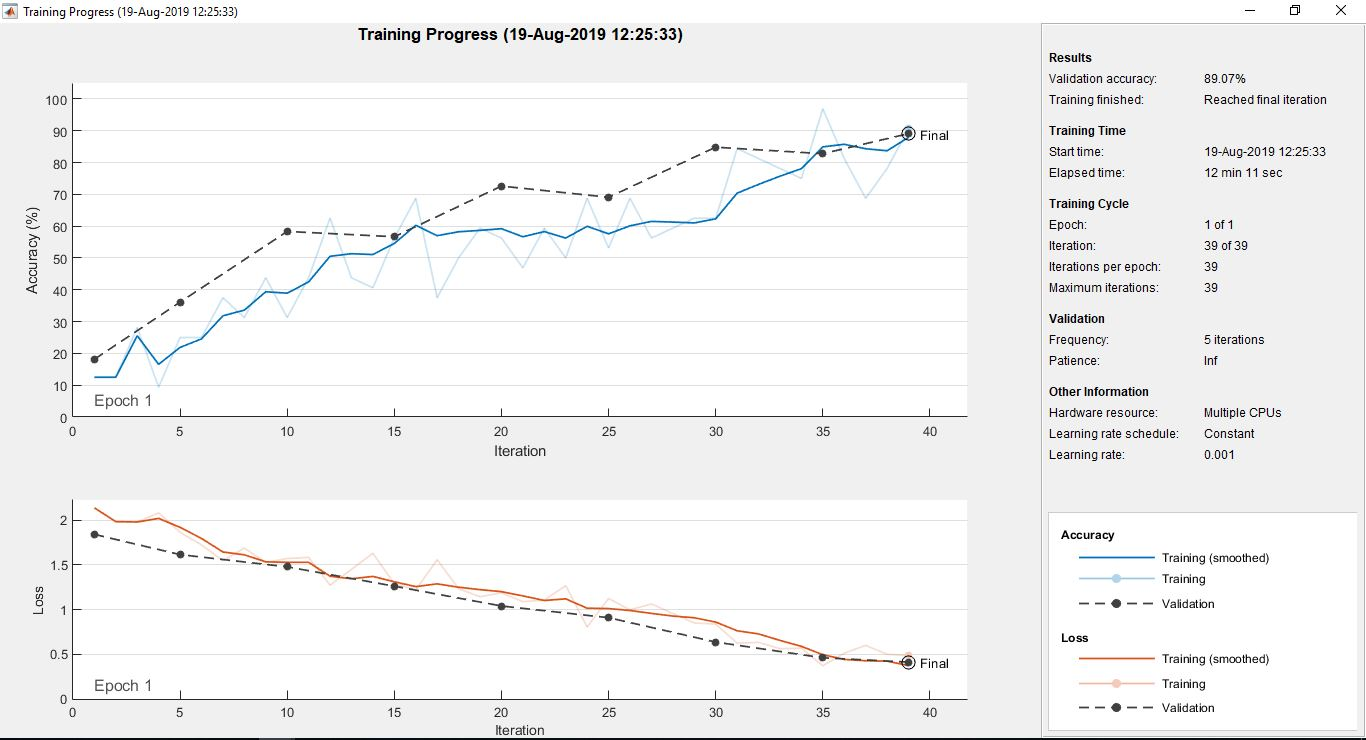
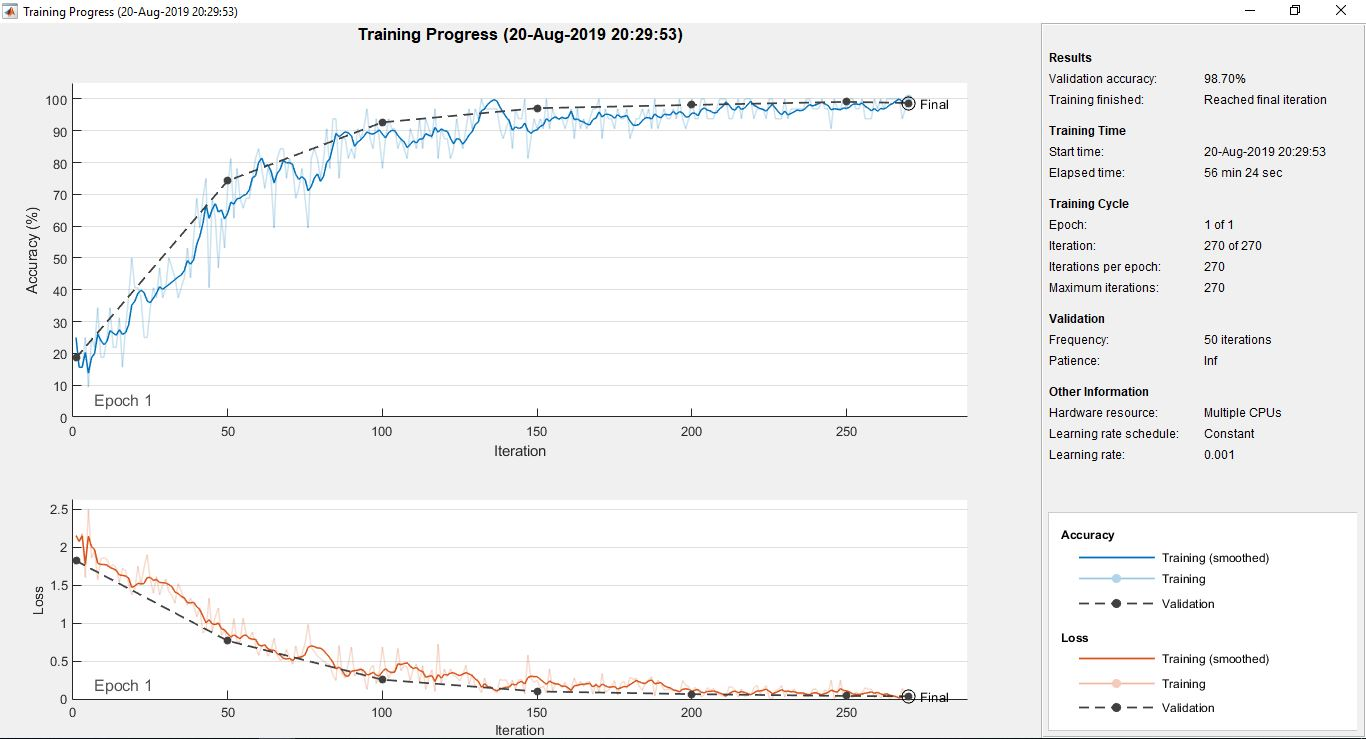
Add files via upload

diff --git a/script.m b/script.m
@@ -1,7 +1,7 @@
  
 parentDir = './';
-dataDir = 'Database1image';
-helperCreateEMGDirectories(EMGData,parentDir,dataDir)
+dataDir = 'DatabaseCWT';
+%helperCreateEMGDirectories(EMGData,parentDir,dataDir)
 
 %%
 helperPlotReps(EMGData)
@@ -27,7 +27,7 @@ allImages = imageDatastore(fullfile(parentDir,dataDir),...
 
 %%
 rng default
-[imgsTrain,imgsValidation] = splitEachLabel(allImages,0.7,'randomized');
+[imgsTrain,imgsValidation] = splitEachLabel(allImages,0.8,'randomized');
 disp(['Number of training images: ',num2str(numel(imgsTrain.Files))]);
 disp(['Number of validation images: ',num2str(numel(imgsValidation.Files))]);
 
@@ -106,10 +106,10 @@ plt = 'training-progress';
 
 opts = trainingOptions('sgdm',...
     'InitialLearnRate',ilr, ...
-    'MaxEpochs',mxEpochs ,...
+    'MaxEpochs',mxEpochs,...
     'MiniBatchSize',mbSize, ...
     'ValidationData',augimgsValidation,...
-    'ValidationFrequency',5, ...
+    'ValidationFrequency',75, ...
     'ExecutionEnvironment','parallel',...
     'Plots',plt);
 

diff --git a/readUCI.m b/readUCI.m
@@ -41,19 +41,19 @@ for j=1:sub
                 end
                 temp_data = t1.(field);
                 t2 = temp_data;
-                %t = zeros(3,250);
+                t = zeros(3,1000);
                 
-%                 for a=1:250:size(t2,2)     
-%                     b=a+249;
-%                     win = t2(:,a:b);
-%                     if t == 0
-%                        t = win;
-%                     else
-%                        t = [t;win];
-%                     end
-%                 end
+                for a=1:500:size(t2,2)     
+                    b=a+499;
+                    win = t2(:,a:b);
+                    if t == 0
+                       t = win;
+                    else
+                       t = [t;win];
+                    end
+                end
                 
-            bf = filter(f,t2);
+            bf = filter(f,t);
             ft = filter(notch,bf);
         
             l(1:size(ft,1),1) = lvalue(m);
